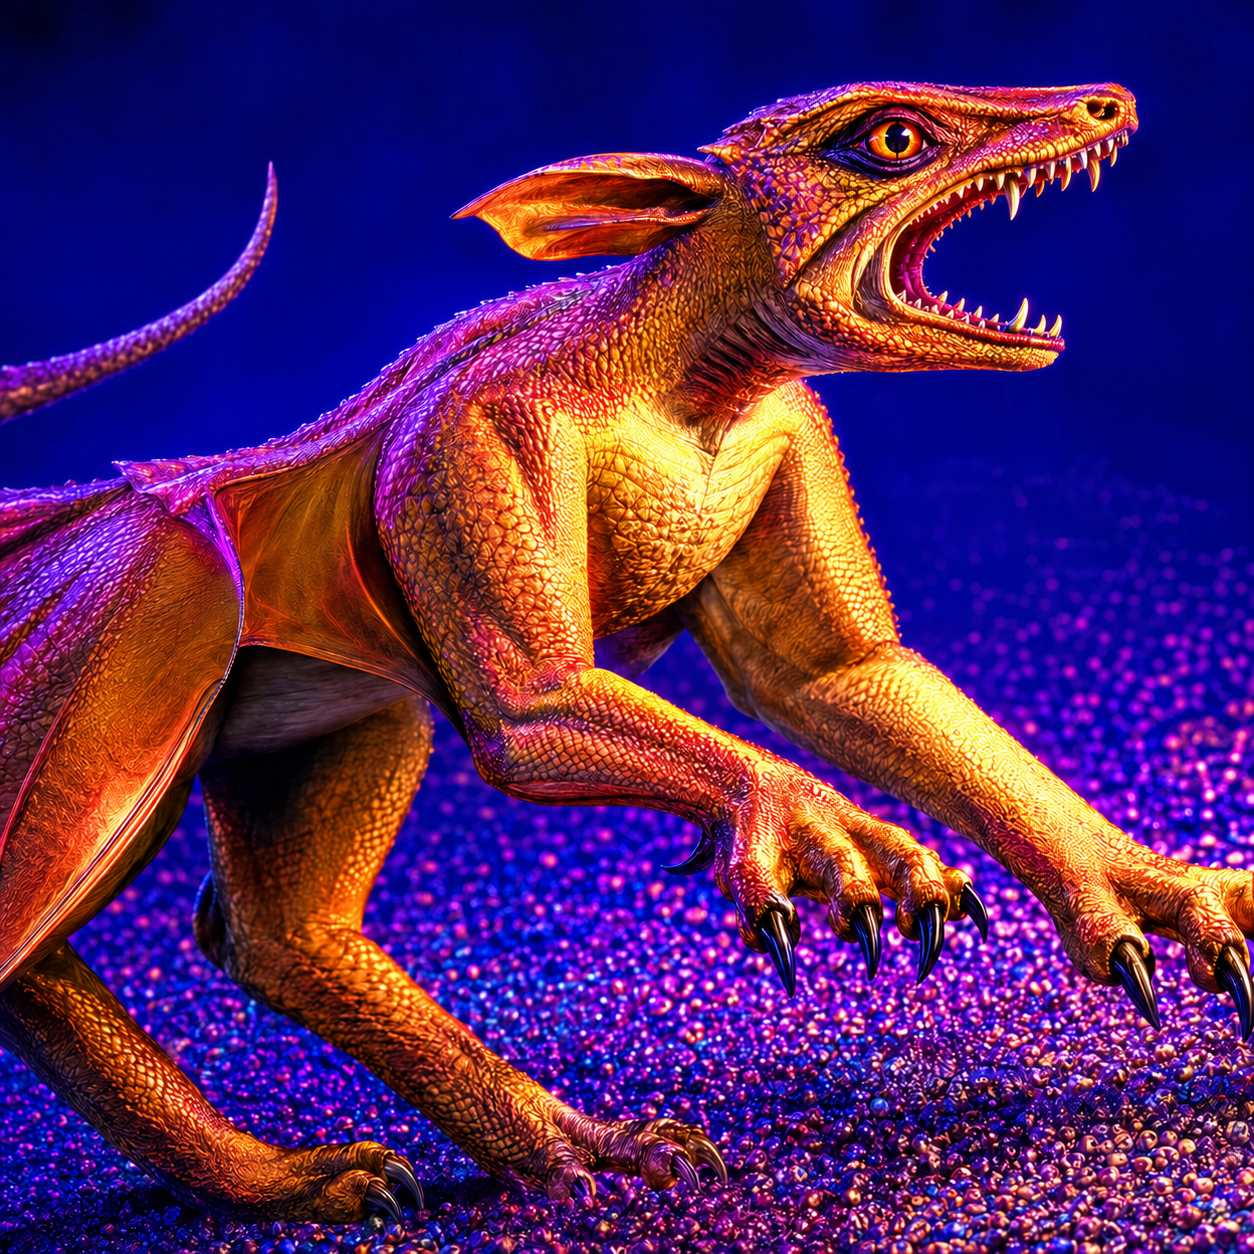
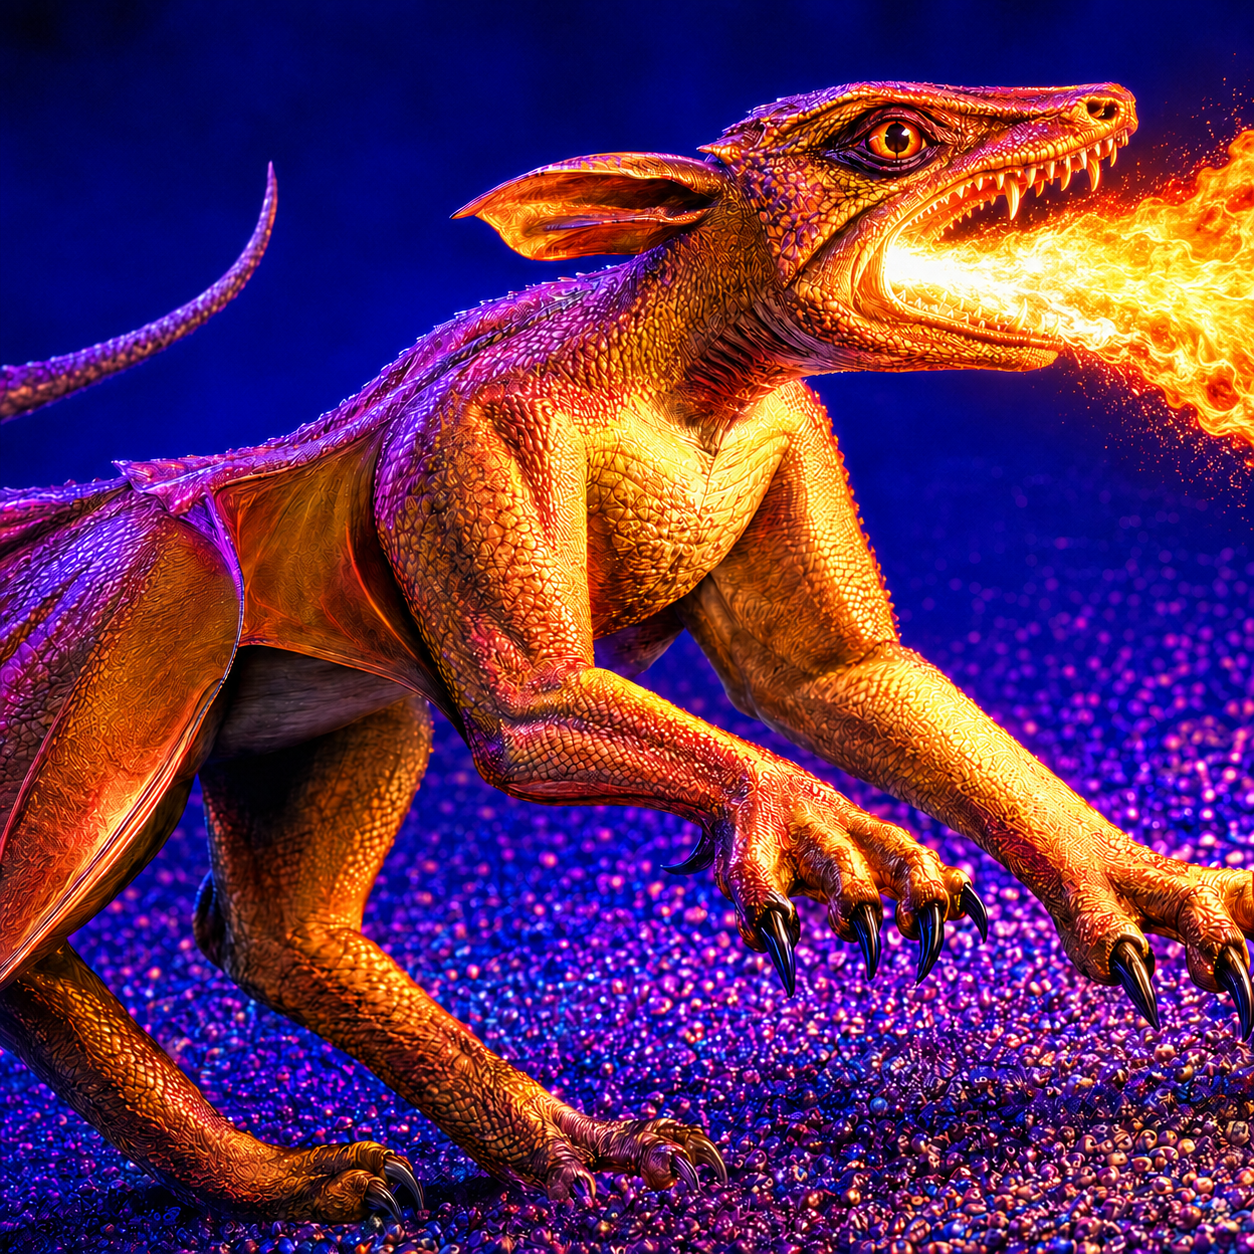
feat(hd): integrate lizard and shared smoke assets

diff --git a/image-uprez-pipeline/test_integration.py b/image-uprez-pipeline/test_integration.py
@@ -17,7 +17,7 @@ assert len({row["identity"] for row in rows}) == 231
 assert len({row["runtime_name"] for row in rows}) == 231
 assert all(row["animation_frame_count"] >= 1 for row in rows)
 validation = validate(rows)
-assert validation["stageable_entries"] == 118
+assert validation["stageable_entries"] == 121
 treasure = [row for row in rows if row["block"] == 1 and row["archive"].startswith("PIC")]
 assert len(treasure) == 6
 assert all(row["review_status"] == "approved" for row in treasure)
@@ -84,11 +84,11 @@ for group, expected_count in recovered_groups.items():
 with tempfile.TemporaryDirectory() as temp:
     destination = Path(temp) / "HDAssets"
     report = stage(destination)
-    assert report["integrated_entries"] == 118
+    assert report["integrated_entries"] == 121
     with (destination / "runtime-lookup.tsv").open(newline="") as handle:
         staged = list(csv.DictReader(handle, dialect="excel-tab"))
     assert len(staged) == 231
-    assert sum(row["stage_status"] == "integrated" for row in staged) == 118
+    assert sum(row["stage_status"] == "integrated" for row in staged) == 121
     staged_treasure = [row for row in staged if row["block"] == "1" and row["archive"].startswith("PIC")]
     assert len(staged_treasure) == 6
     assert all(row["stage_status"] == "integrated" for row in staged_treasure)
@@ -142,4 +142,4 @@ battle_draw = ovr011.index("SetupGroundTiles();", battle)
 assert battle < battle_clear < battle_draw
 assert "externalImages[key] = new ExternalImageLayer" in display
 assert "externalImages.Remove(key);" in display
-print("integration tests passed: 231 lookups, 118 staged with byte-matched runtime files, shared six-area treasure/camp mappings, complete approved PIC2-PIC5 animations with duplicate-frame contracts, verified retained-layer replacement boundaries, and exact-ratio innkeeper/title assets")
+print("integration tests passed: 231 lookups, 121 staged with byte-matched runtime files, shared six-area treasure/camp mappings, complete approved PIC2-PIC6 animations with duplicate-frame contracts, verified retained-layer replacement boundaries, and exact-ratio innkeeper/title assets")

diff --git a/image-uprez-pipeline/test_hd_lifecycle_contract.py b/image-uprez-pipeline/test_hd_lifecycle_contract.py
@@ -43,9 +43,10 @@ assert cmd_combat.rfind("ovr025.LoadPic();") > cmd_combat.rfind(
 )
 
 # The standard demo launcher must prepare the same isolated, validated runtime
-# as run-full-auto. Launching Main.exe directly from tracked Data/ bypasses the
-# runtime lookup and silently falls back to the original low-resolution art.
-assert 'export COAB_GAME_DIR="${COAB_GAME_DIR:-$COAB_DIR/Data}"' in launch
+# as run-full-auto and take its default visual/source data from the refactor
+# checkout. Launching Main.exe directly from tracked Data/ bypasses the runtime
+# lookup and silently falls back to the original low-resolution art.
+assert 'export COAB_GAME_DIR="${COAB_GAME_DIR:-$COAB_DIR/../coab-refactor/Data}"' in launch
 assert 'exec "$COAB_DIR/run-full-auto.sh" "$@"' in launch
 assert 'exec mono "$COAB_DIR/Main/bin/Release/Main.exe"' not in launch
 

diff --git a/image-uprez-pipeline/README.md b/image-uprez-pipeline/README.md
@@ -50,7 +50,7 @@ Deliberately excluded:
 - `HEAD2/BODY2 block 003`: The maintainer approved the Tiverton innkeeper pair after exact-seam reconstruction and live Full Auto testing. Neck width differs by only 0.42% from the original and both retained portrait layers load together correctly.
 - Eight strong prior eligible replacements are reused: four TITLE screens, BIGPIC1 blocks 121/123, BIGPIC6 block 122 (from a legacy misnamed file), and PIC1 block 80.
 
-No generated candidate is automatically installed in the game. Every image requires ratio, composition, object-count, quality and lifecycle approval first. Current deterministic staging: **118 approved/integrated, 2 rejected entries, 111 missing entries**. A production-folder reconciliation found 71 HD-sized PNG files representing 67 unique hashes; 70 files are covered by approved repository assets. The sole excluded file is the documented unused sixth PIC2 block 009 alternate, because that source animation has only five frames.
+No generated candidate is automatically installed in the game. Every image requires ratio, composition, object-count, quality and lifecycle approval first. Current deterministic staging: **121 approved/integrated, 2 rejected entries, 108 missing entries**. A production-folder reconciliation found 71 HD-sized PNG files representing 67 unique hashes; 70 files are covered by approved repository assets. The sole excluded file is the documented unused sixth PIC2 block 009 alternate, because that source animation has only five frames.
 
 ## Deterministic integration
 
